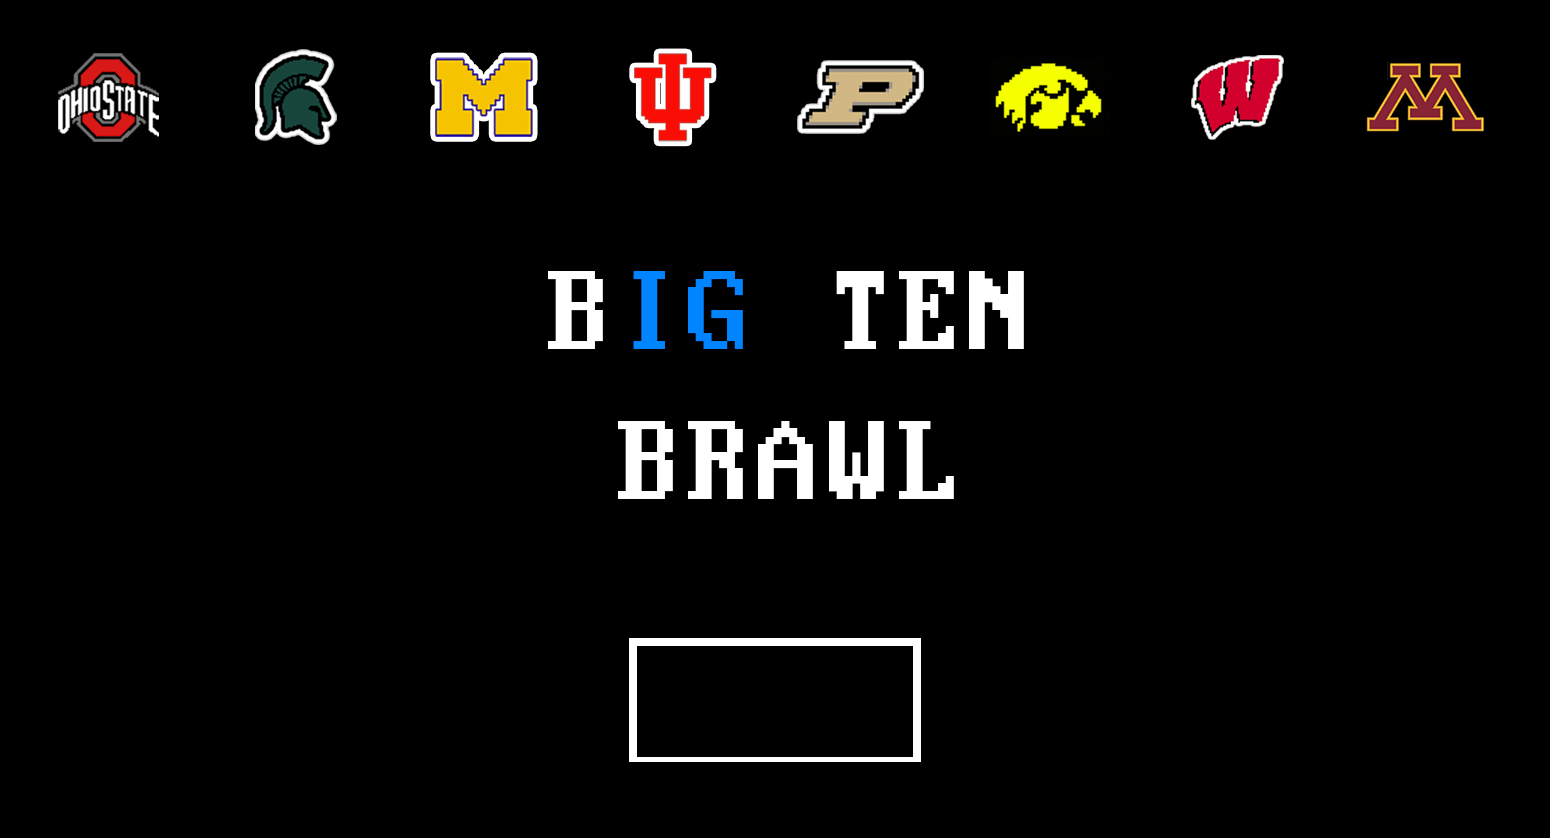
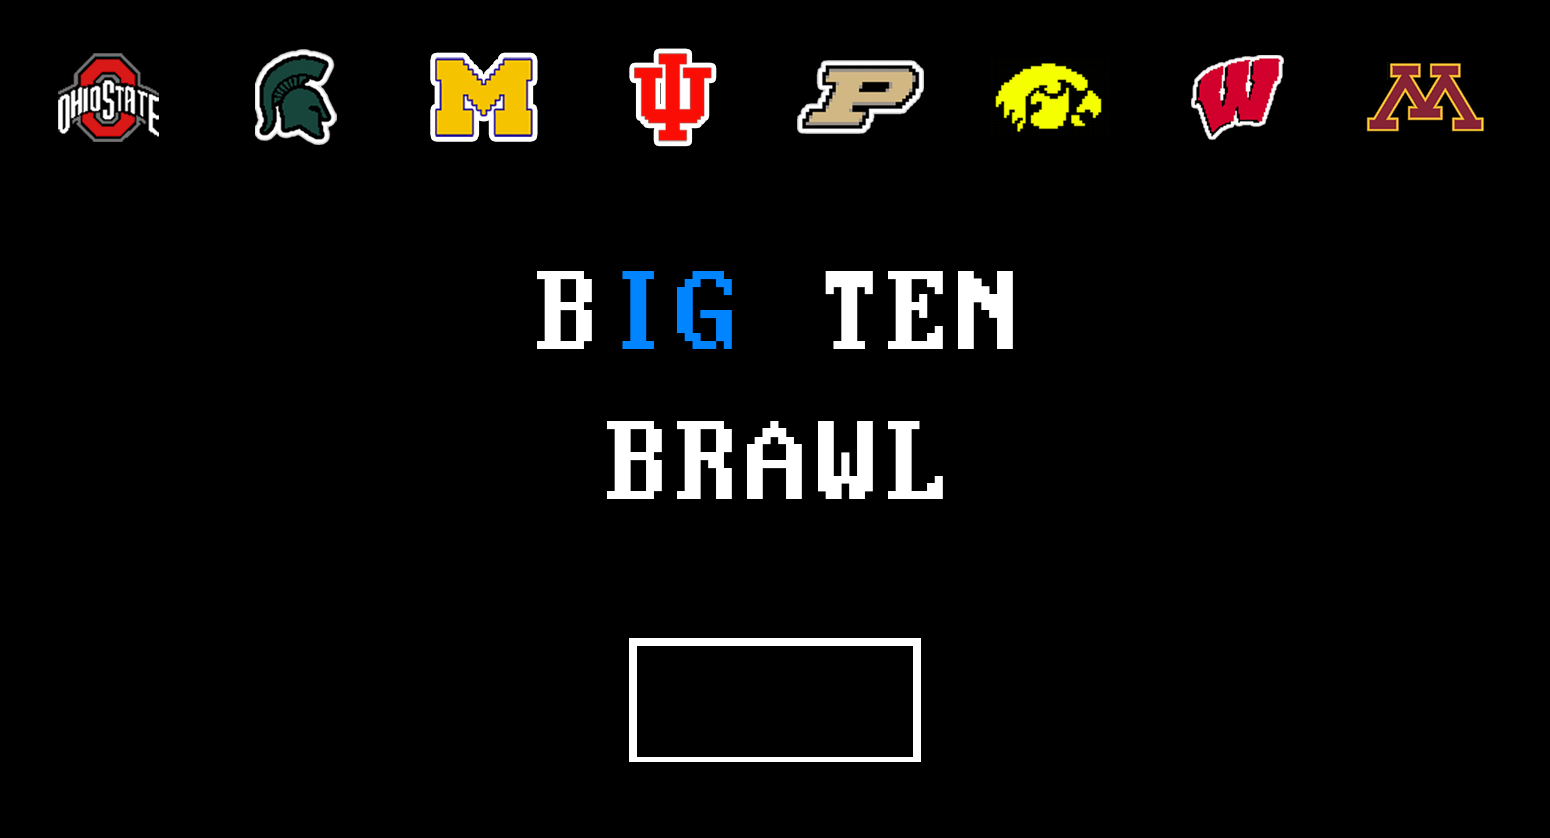
Reformatted teh UI on CharacterSelect

Changed region(s): [[0.3716, 0.4964, 0.6194, 0.6205], [0.5265, 0.3103, 0.6813, 0.4344], [0.3406, 0.3103, 0.4955, 0.4344]]

diff --git a/src/CharacterSelect.java b/src/CharacterSelect.java
@@ -32,6 +32,7 @@ public class CharacterSelect {
     private BufferedImage sparky;
     private BufferedImage wolverine;
     private BufferedImage hoosier;
+    private BufferedImage blueSquare;
 
     public boolean finished;
 
@@ -113,23 +114,30 @@ public class CharacterSelect {
                         System.out.println("Stack Error");
                     }
                 }
+                if (blueSquare == null) {
+                    try {
+                        blueSquare = ImageIO.read(new File("bin/Character Select/Character Sprites/Outline_Blue.png"));
+                    } catch (IOException e) {
+                        System.out.println("Stack Error");
+                    }
+                }
                 if (playerNumber > 1) {
                     if (player1Select == 0) {
-                        g.drawImage(pete,313,671,null);
+                        g.drawImage(blueSquare,181,122,null);
                     } else if (player1Select == 1) {
-                        g.drawImage(hawkeye,313,696,null);
+                        g.drawImage(blueSquare,486,122,null);
                     } else if (player1Select == 4) {
-                        g.drawImage(buckeye,303,669,null);
+                        g.drawImage(buckeye,181,466,null);
                     } else if (player1Select == 3) {
-                        g.drawImage(hoosier,352,662,null);
+                        g.drawImage(blueSquare,1099,466,null);
                     } else if (player1Select == 2) {
-                        g.drawImage(badger,321,674,null);
+                        g.drawImage(blueSquare,793,122,null);
                     } else if (player1Select == 5) {
-                        g.drawImage(sparky,333,667,null);
+                        g.drawImage(blueSquare,486,466,null);
                     } else if (player1Select == 6) {
-                        g.drawImage(wolverine,326,671,null);
+                        g.drawImage(blueSquare,793,466,null);
                     } else if (player1Select == 7) {
-                        g.drawImage(gopher,337,673,null);
+                        g.drawImage(blueSquare,1099,122,null);
                     }
                 }
                 if (purdue == null) {
@@ -144,29 +152,29 @@ public class CharacterSelect {
                 }
 
                 g.setColor(purdue);
-                g.fillRect(117,98,180,180);
+                g.fillRect(198,138,236,236);
                 g.setColor(iowa);
-                g.fillRect(346,98,180,180);
+                g.fillRect(504,138,236,236);
                 g.setColor(wisconsin);
-                g.fillRect(575,98,180,180);
+                g.fillRect(811,138,236,236);
                 g.setColor(minnesota);
-                g.fillRect(804,98,180,180);
+                g.fillRect(1117,138,236,236);
                 g.setColor(osu);
-                g.fillRect(117,357,180,180);
+                g.fillRect(198,484,236,236);
                 g.setColor(msu);
-                g.fillRect(346,357,180,180);
+                g.fillRect(504,484,236,236);
                 g.setColor(michigan);
-                g.fillRect(575,357,180,180);
+                g.fillRect(811,484,236,236);
                 g.setColor(indiana);
-                g.fillRect(804,357,180,180);
-                g.drawImage(pete,130,112,null);
-                g.drawImage(hawkeye,352,136,null);
-                g.drawImage(badger,580,114,null);
-                g.drawImage(gopher,809,114,null);
-                g.drawImage(buckeye,123,366,null);
-                g.drawImage(sparky,359,367,null);
-                g.drawImage(wolverine,579,371,null);
-                g.drawImage(hoosier,824,362,null);
+                g.fillRect(1117,484,236,236);
+                g.drawImage(pete,242,207,null);
+                g.drawImage(hawkeye,546,231,null);
+                g.drawImage(badger,844,210,null);
+                g.drawImage(gopher,1151,209,null);
+                g.drawImage(buckeye,232,548,null);
+                g.drawImage(sparky,543,549,null);
+                g.drawImage(wolverine,846,553,null);
+                g.drawImage(hoosier,1174,471,null);
             }
         };
         player1.setSize(1550,838);
@@ -191,35 +199,35 @@ public class CharacterSelect {
 
             @Override
             public void mousePressed(MouseEvent e) {
-                if (e.getX() >= 117 && e.getX() <= 297 && e.getY() >= 111 && e.getY() <= 310) {
+                if (e.getX() >= 198 && e.getX() <= 434 && e.getY() >= 138 && e.getY() <= 374) {
                     characterValue = 0;
                     player1Select = 0;
                     changePurdueButtonColor();
-                } else if (e.getX() >= 346 && e.getX() <= 526 && e.getY() >= 111 && e.getY() <= 310) {
+                } else if (e.getX() >= 504 && e.getX() <= 740 && e.getY() >= 138 && e.getY() <= 374) {
                     characterValue = 1;
                     player1Select = 1;
                     changeIowaButtonColor();
-                } else if (e.getX() >= 575 && e.getX() <= 756 && e.getY() >= 111 && e.getY() <= 310) {
+                } else if (e.getX() >= 811 && e.getX() <= 1047 && e.getY() >= 138 && e.getY() <= 374) {
                     characterValue = 2;
                     player1Select = 2;
                     changeWisconsinButtonColor();
-                } else if (e.getX() >= 804 && e.getX() <= 984 && e.getY() >= 111 && e.getY() <= 310) {
+                } else if (e.getX() >= 1117 && e.getX() <= 1353 && e.getY() >= 138 && e.getY() <= 374) {
                     characterValue = 7;
                     player1Select = 7;
                     changeMinnesotaButtonColor();
-                } else if (e.getX() >= 117 && e.getX() <= 297 && e.getY() >= 369 && e.getY() <= 568) {
+                } else if (e.getX() >= 198 && e.getX() <= 434 && e.getY() >= 484 && e.getY() <= 720) {
                     characterValue = 4;
                     player1Select = 4;
                     changeOSUButtonColor();
-                } else if (e.getX() >= 346 && e.getX() <= 526 && e.getY() >= 369 && e.getY() <= 568) {
+                } else if (e.getX() >= 504 && e.getX() <= 740 && e.getY() >= 484 && e.getY() <= 720) {
                     characterValue = 5;
                     player1Select = 5;
                     changeMSUButtonColor();
-                } else if (e.getX() >= 575 && e.getX() <= 756 && e.getY() >= 369 && e.getY() <= 568) {
+                } else if (e.getX() >= 811 && e.getX() <= 1047 && e.getY() >= 484 && e.getY() <= 720) {
                     characterValue = 6;
                     player1Select = 6;
                     changeMichiganButtonColor();
-                } else if (e.getX() >= 804 && e.getX() <= 984 && e.getY() >= 369 && e.getY() <= 568) {
+                } else if (e.getX() >= 1117 && e.getX() <= 1353 && e.getY() >= 484 && e.getY() <= 720) {
                     characterValue = 3;
                     player1Select = 3;
                     changeIndianaButtonColor();
@@ -228,28 +236,28 @@ public class CharacterSelect {
 
             @Override
             public void mouseReleased(MouseEvent e) {
-                if (e.getX() >= 117 && e.getX() <= 297 && e.getY() >= 111 && e.getY() <= 310) {
+                if (e.getX() >= 198 && e.getX() <= 434 && e.getY() >= 138 && e.getY() <= 374) {
                     changePurdueButtonColor();
                     finished = true;
-                } else if (e.getX() >= 346 && e.getX() <= 526 && e.getY() >= 111 && e.getY() <= 310) {
+                } else if (e.getX() >= 504 && e.getX() <= 740 && e.getY() >= 138 && e.getY() <= 374) {
                     changeIowaButtonColor();
                     finished = true;
-                } else if (e.getX() >= 575 && e.getX() <= 756 && e.getY() >= 111 && e.getY() <= 310) {
+                } else if (e.getX() >= 811 && e.getX() <= 1047 && e.getY() >= 138 && e.getY() <= 374) {
                     changeWisconsinButtonColor();
                     finished = true;
-                } else if (e.getX() >= 804 && e.getX() <= 984 && e.getY() >= 111 && e.getY() < 310) {
+                } else if (e.getX() >= 1117 && e.getX() <= 1353 && e.getY() >= 138 && e.getY() <= 374) {
                     changeMinnesotaButtonColor();
                     finished = true;
-                } else if (e.getX() >= 117 && e.getX() <= 297 && e.getY() >= 369 && e.getY() <= 568) {
+                } else if (e.getX() >= 198 && e.getX() <= 434 && e.getY() >= 484 && e.getY() <= 720) {
                     changeOSUButtonColor();
                     finished = true;
-                } else if (e.getX() >= 346 && e.getX() <= 526 && e.getY() >= 369 && e.getY() <= 568) {
+                } else if (e.getX() >= 504 && e.getX() <= 740 && e.getY() >= 484 && e.getY() <= 720) {
                     changeMSUButtonColor();
                     finished = true;
-                } else if (e.getX() >= 575 && e.getX() <= 756 && e.getY() >= 369 && e.getY() <= 568) {
+                } else if (e.getX() >= 811 && e.getX() <= 1047 && e.getY() >= 484 && e.getY() <= 720) {
                     changeMichiganButtonColor();
                     finished = true;
-                } else if (e.getX() >= 804 && e.getX() <= 984 && e.getY() >= 369 && e.getY() <= 568) {
+                } else if (e.getX() >= 1117 && e.getX() <= 1353 && e.getY() >= 484 && e.getY() <= 720) {
                     changeIndianaButtonColor();
                     finished = true;
                 }
